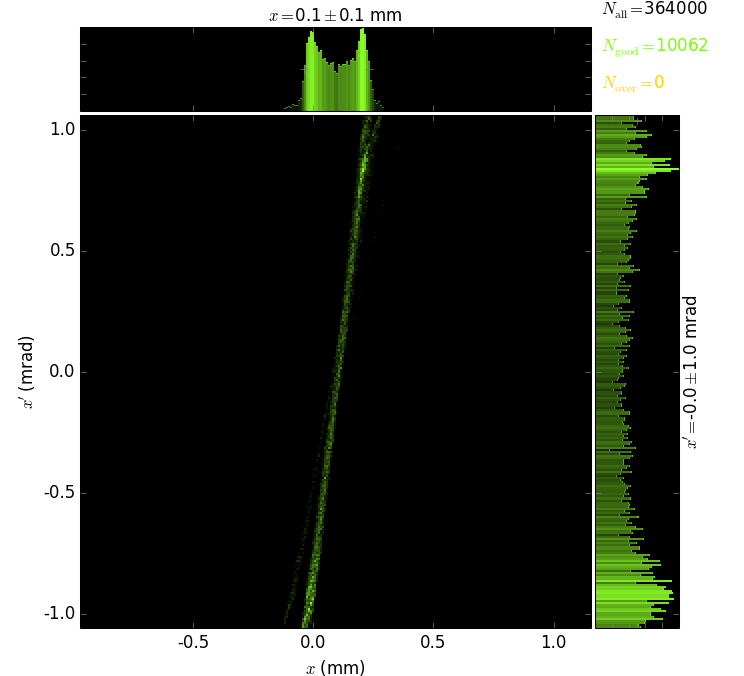
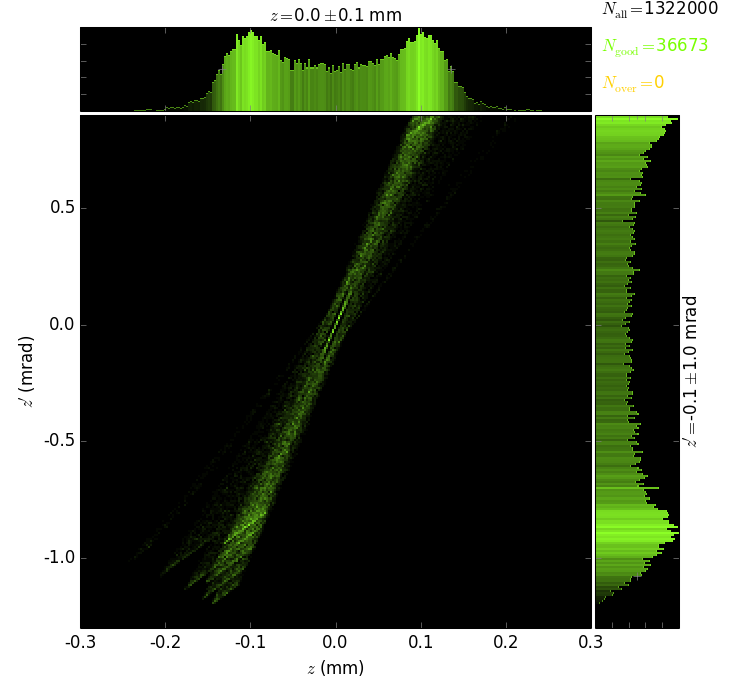
Phase search 01a

diff --git a/simplfiedMonoCapillary.py b/simplfiedMonoCapillary.py
@@ -170,12 +170,12 @@ def main():
     plots = []
 
     limits1 = [-0.3, 0.3]
-    limits2 = [-0.2, 0.2]
+    limits2 = [-1.3, 0.9]
     # at the entrance
     plot = xrtp.XYCPlot('beamFSM2', (1,3),
-        xaxis=xrtp.XYCAxis(r'$x$', 'mm', bins=256, ppb=2, limits = None),
-        yaxis=xrtp.XYCAxis(r"$x'$", 'mrad', bins=256, ppb=2, limits = None),
-        caxis='category', beamState='beamFSM2', title='FSM2_Cat')
+        xaxis=xrtp.XYCAxis(r'$z$', 'mm', bins=256, ppb=2, limits = limits1),
+        yaxis=xrtp.XYCAxis(r"$z'$", 'mrad', bins=256, ppb=2, limits = limits2),
+        caxis='category', beamState='beamFSM2', title='FSM2_Cat', aspect='auto')
     plot.baseName = 'phaseSearch'
     plot.saveName = plot.baseName + '.png'
     plots.append(plot)
